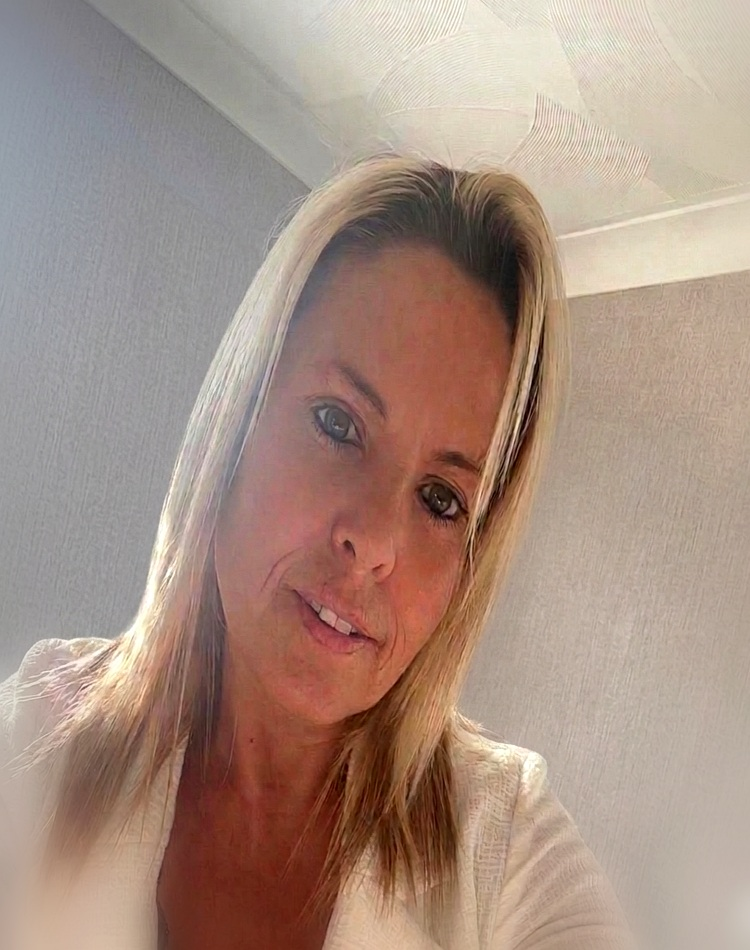
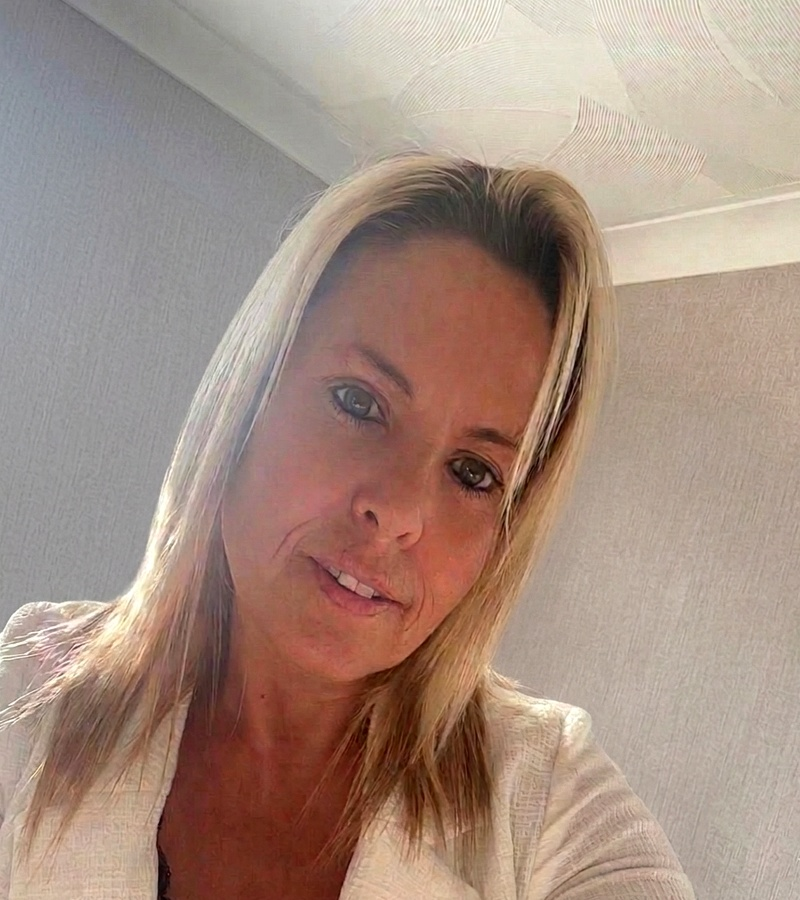
Add files via upload

diff --git a/components/GalleryCards.tsx b/components/GalleryCards.tsx
@@ -1,38 +1,5 @@
 import Image from "next/image";
 
-const cards = [
-  {
-    title: "Friendly Company at Home",
-    description:
-      "Whether it's a cup of tea, sharing stories, or enjoying a favourite programme together — we're simply there to be good company. No one should sit at home alone.",
-    image: "/hero-companion.jpg",
-    alt: "Elderly man enjoying time with a companion over tea",
-    cta: "Book a Visit",
-    href: "#contact",
-    accent: false,
-  },
-  {
-    title: "Shared Activities & Hobbies",
-    description:
-      "From cooking and baking to gentle crafts, reading, or puzzles — every visit is tailored around what brings your loved one joy and keeps them engaged.",
-    image: "/cooking-together.jpg",
-    alt: "Companion and older adult cooking together",
-    cta: "Our Services",
-    href: "#services",
-    accent: true,
-  },
-  {
-    title: "Getting Out & About",
-    description:
-      "Accompanied walks, a trip to the local shops, or a visit to a café — we help older adults stay active, independent, and connected to the world around them.",
-    image: null,
-    alt: null,
-    cta: "Learn More",
-    href: "#services",
-    accent: false,
-  },
-];
-
 export default function GalleryCards() {
   return (
     <section className="py-24 px-5 bg-[#FBF8F3]">
@@ -54,73 +21,118 @@ export default function GalleryCards() {
         </div>
 
         <div className="grid grid-cols-1 sm:grid-cols-3 gap-6">
-          {cards.map((card, i) => (
-            <div
-              key={i}
-              className={`rounded-3xl overflow-hidden flex flex-col shadow-lg ${
-                card.accent
-                  ? "bg-[#F47920]"
-                  : "bg-[#1B3878]"
-              }`}
-            >
-              {/* Image or styled top */}
-              {card.image ? (
-                <div className="relative h-52 w-full flex-shrink-0">
-                  <Image
-                    src={card.image}
-                    alt={card.alt!}
-                    fill
-                    className="object-cover"
-                  />
-                </div>
-              ) : (
-                <div className="h-52 w-full flex-shrink-0 relative overflow-hidden flex items-center justify-center bg-[#0f2456]">
-                  {/* Decorative circles */}
-                  <div className="absolute w-48 h-48 rounded-full border-2 border-white/10" />
-                  <div className="absolute w-32 h-32 rounded-full border-2 border-white/15" />
-                  <div className="absolute w-16 h-16 rounded-full border-2 border-white/20" />
-                  <svg width="56" height="56" viewBox="0 0 24 24" fill="none" className="relative z-10 opacity-60">
-                    <circle cx="12" cy="8" r="4" fill="white" />
-                    <path d="M6 20v-1a6 6 0 0112 0v1" fill="white" opacity="0.6"/>
-                    <path d="M19 8c1.5 0 3 1 3 3s-1.5 3-3 3" stroke="white" strokeWidth="1.5" fill="none" strokeLinecap="round"/>
-                    <path d="M5 8C3.5 8 2 9 2 11s1.5 3 3 3" stroke="white" strokeWidth="1.5" fill="none" strokeLinecap="round"/>
-                  </svg>
-                </div>
-              )}
 
-              {/* Content */}
-              <div className="flex flex-col flex-1 p-7">
-                <h3
-                  className={`text-xl font-bold mb-3 ${
-                    card.accent ? "text-white" : "text-white"
-                  }`}
-                  style={{ fontFamily: "var(--font-playfair), serif" }}
-                >
-                  {card.title}
-                </h3>
-                <p
-                  className={`text-sm leading-relaxed flex-1 mb-6 ${
-                    card.accent ? "text-orange-100" : "text-blue-200"
-                  }`}
-                >
-                  {card.description}
+          {/* Card 1 — with photo */}
+          <div className="bg-[#1B3878] rounded-3xl overflow-hidden flex flex-col shadow-lg">
+            <div className="relative h-52 w-full flex-shrink-0">
+              <Image
+                src="/hero-companion.jpg"
+                alt="Elderly man enjoying time with a companion"
+                fill
+                className="object-cover"
+              />
+            </div>
+            <div className="flex flex-col flex-1 p-7">
+              <h3
+                className="text-xl font-bold text-white mb-3"
+                style={{ fontFamily: "var(--font-playfair), serif" }}
+              >
+                Friendly Company at Home
+              </h3>
+              <p className="text-blue-200 text-sm leading-relaxed flex-1 mb-6">
+                Whether it&apos;s a cup of tea, sharing stories, or enjoying a
+                favourite programme — we&apos;re simply there to be good company.
+                No one should sit at home alone.
+              </p>
+              <a
+                href="#contact"
+                className="inline-flex items-center gap-2 bg-white/15 text-white font-semibold text-sm px-5 py-2.5 rounded-full w-fit hover:bg-white/25 border border-white/20 transition-all"
+              >
+                Book a Visit
+                <svg width="12" height="12" fill="none" stroke="currentColor" strokeWidth="2.5" strokeLinecap="round" strokeLinejoin="round" viewBox="0 0 24 24">
+                  <path d="M5 12h14M12 5l7 7-7 7" />
+                </svg>
+              </a>
+            </div>
+          </div>
+
+          {/* Card 2 — with photo, accent */}
+          <div className="bg-[#F47920] rounded-3xl overflow-hidden flex flex-col shadow-lg">
+            <div className="relative h-52 w-full flex-shrink-0">
+              <Image
+                src="/cooking-together.jpg"
+                alt="Companion and older adult cooking together"
+                fill
+                className="object-cover"
+              />
+            </div>
+            <div className="flex flex-col flex-1 p-7">
+              <h3
+                className="text-xl font-bold text-white mb-3"
+                style={{ fontFamily: "var(--font-playfair), serif" }}
+              >
+                Shared Activities &amp; Hobbies
+              </h3>
+              <p className="text-orange-100 text-sm leading-relaxed flex-1 mb-6">
+                From cooking and baking to gentle crafts, reading, or puzzles
+                — every visit is tailored around what brings your loved one
+                joy and keeps them engaged.
+              </p>
+              <a
+                href="#services"
+                className="inline-flex items-center gap-2 bg-white text-[#F47920] font-semibold text-sm px-5 py-2.5 rounded-full w-fit hover:shadow-lg transition-all"
+              >
+                Our Services
+                <svg width="12" height="12" fill="none" stroke="currentColor" strokeWidth="2.5" strokeLinecap="round" strokeLinejoin="round" viewBox="0 0 24 24">
+                  <path d="M5 12h14M12 5l7 7-7 7" />
+                </svg>
+              </a>
+            </div>
+          </div>
+
+          {/* Card 3 — quote/stat card, no photo needed */}
+          <div className="bg-[#0f2456] rounded-3xl flex flex-col shadow-lg relative overflow-hidden">
+            {/* Decorative background circles */}
+            <div className="absolute top-0 right-0 w-48 h-48 rounded-full opacity-10" style={{ background: "radial-gradient(circle, #F47920 0%, transparent 70%)", transform: "translate(30%, -30%)" }} />
+            <div className="absolute bottom-0 left-0 w-36 h-36 rounded-full opacity-8" style={{ background: "radial-gradient(circle, white 0%, transparent 70%)", transform: "translate(-30%, 30%)" }} />
+
+            <div className="flex flex-col flex-1 p-7 relative">
+              {/* DBS badge */}
+              <div className="inline-flex items-center gap-2 bg-[#F47920]/20 border border-[#F47920]/30 rounded-full px-3 py-1.5 w-fit mb-6">
+                <svg width="12" height="12" viewBox="0 0 24 24" fill="none">
+                  <path d="M12 2L3 7v5c0 5.25 3.75 10.15 9 11.25C17.25 22.15 21 17.25 21 12V7L12 2z" fill="#F47920"/>
+                  <path d="M9 12l2 2 4-4" stroke="white" strokeWidth="2" strokeLinecap="round" strokeLinejoin="round"/>
+                </svg>
+                <span className="text-[#F47920] text-xs font-bold">DBS Checked</span>
+              </div>
+
+              <p
+                className="text-white text-2xl font-bold leading-snug mb-4 flex-1"
+                style={{ fontFamily: "var(--font-playfair), serif" }}
+              >
+                &ldquo;Getting out and about makes such a difference to
+                someone&apos;s{" "}
+                <span className="text-[#F47920] italic">day.</span>&rdquo;
+              </p>
+
+              <div className="border-t border-white/10 pt-5 mt-auto">
+                <p className="text-blue-200 text-sm leading-relaxed mb-5">
+                  Accompanied walks, local shops, cafés — we help older adults
+                  stay active and connected to the world around them.
                 </p>
                 <a
-                  href={card.href}
-                  className={`inline-flex items-center gap-2 font-semibold text-sm px-5 py-2.5 rounded-full w-fit transition-all hover:-translate-y-0.5 ${
-                    card.accent
-                      ? "bg-white text-[#F47920] hover:shadow-lg"
-                      : "bg-white/15 text-white hover:bg-white/25 border border-white/20"
-                  }`}
+                  href="#services"
+                  className="inline-flex items-center gap-2 bg-[#F47920] text-white font-semibold text-sm px-5 py-2.5 rounded-full w-fit hover:bg-[#e06810] transition-all hover:shadow-lg"
                 >
-                  {card.cta}
+                  Learn More
                   <svg width="12" height="12" fill="none" stroke="currentColor" strokeWidth="2.5" strokeLinecap="round" strokeLinejoin="round" viewBox="0 0 24 24">
                     <path d="M5 12h14M12 5l7 7-7 7" />
                   </svg>
                 </a>
               </div>
             </div>
-          ))}
+          </div>
+
         </div>
       </div>
     </section>